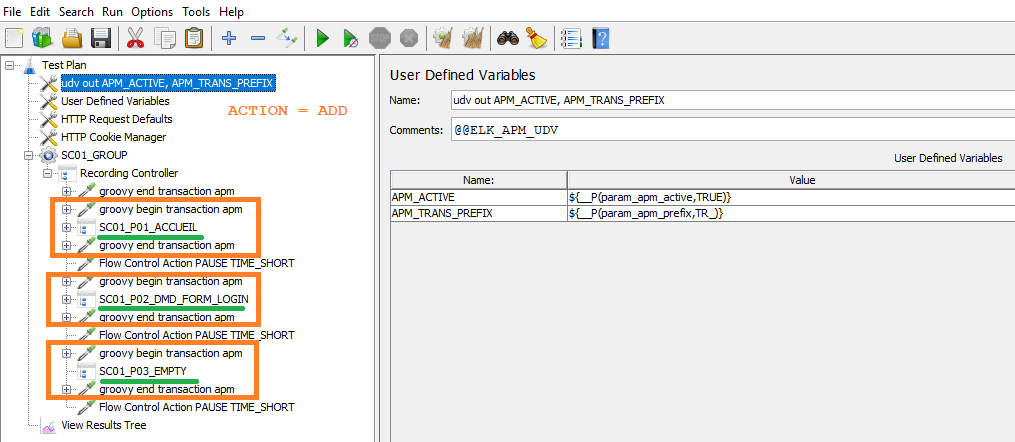
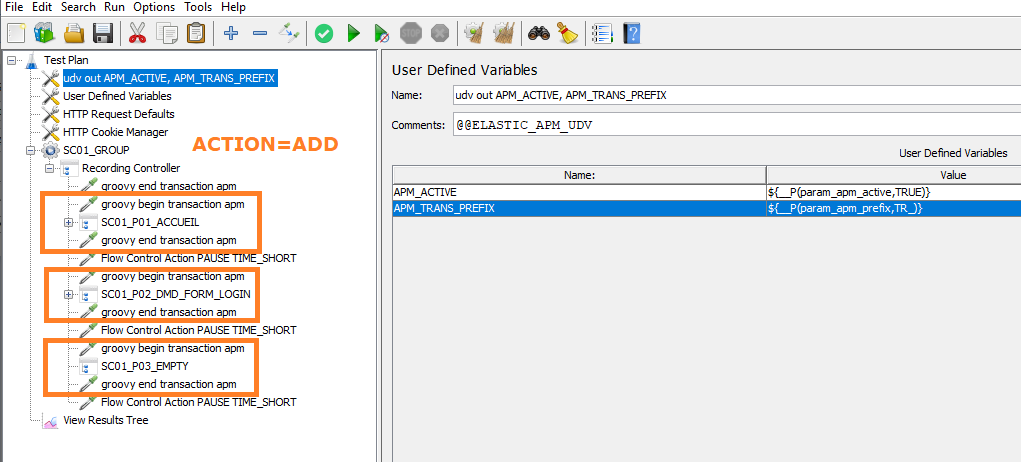
Change globally ELK with ELASTIC

Changed region(s): [[0.0, 0.0, 1.0, 1.0], [0.2138, 0.2353, 0.336, 0.2647]]

diff --git a/doc/US/README_US.md b/doc/US/README_US.md
@@ -1,23 +1,23 @@
 # Blog post in English for site https://elastic.co/en/blog
 
-## The advantages of ELK APM for observing the tested environment
-My first use of the Elastic Search Application Performance Monitoring (ELK APM) observability solution coincides with projects that are developed based on micro-services. In 2019 for the projects on which I was responsible for performance testing.
+## The advantages of ELASTIC APM for observing the tested environment
+My first use of the Elastic Search Application Performance Monitoring (ELASTIC APM) observability solution coincides with projects that are developed based on micro-services. In 2019 for the projects on which I was responsible for performance testing.
 
-At this time (2019) the first versions of ELK APM were released.
+At this time (2019) the first versions of ELASTIC APM were released.
 I was attracted by easy installation of agents, the numerous protocols supported by the Java agent (https://www.elastic.co/guide/en/apm/agent/java/current/supported-technologies-details.html) including the Apache HttpClient used in JMeter and other languages (GO, .Net, Node.js, PHP, Python, Ruby), the dashboards quality in Kibana for the APM.
 
 I found the information displayed in the Kibana APM dashboards to be relevant and not too verbose. The Java agent monitoring is simple but displays essential information on machine OS and JVM. 
 
 The open-source aspect and the free solution for the main functions of the tool were also decisive.
 
-I generalized the use of the ELK APM observability solution in performance environments for all projects. 
+I generalized the use of the ELASTIC APM observability solution in performance environments for all projects. 
 
-With ELK APM, I have the timelines of the different calls and exchanges between web services, the SQL queries executed, the exchange of messages by JMS file and monitoring. 
+With ELASTIC APM, I have the timelines of the different calls and exchanges between web services, the SQL queries executed, the exchange of messages by JMS file and monitoring. 
 
 I also have quick access to errors or exceptions thrown in Java applications.
 
-## Why integrate ELK APM in Apache JMeter
-By adding Java APM agents to web applications, we find the services called timelines in the Kibana dashboards. However, we remain at a REST API call level mainly, we do not have the notion of page.
+## Why integrate ELASTIC APM in Apache JMeter
+By adding Java APM Agents to web applications, we find the services called timelines in the Kibana dashboards. However, we remain at a REST API call level mainly, we do not have the notion of page.
 
 For example, page PAGE01 will make the following API calls:
 <pre>
@@ -46,9 +46,9 @@ If we look in the Kibana dashboard for service2, we will find the union of the c
 
 We cannot answer “In this page, what is the breakdown of time in the different REST calls called” because for a user of the application the notion of page response time is important.
 
-The goal of the jmeter-elk-apm tool is to add the notion of an existing page in JMeter in the  Transaction Controller and start the observability in JMeter by creating an APM transaction and propagating this transaction identifier (traceparent) with the ELK agent to http REST request to web services because the APM agent recognizes the Apache httpclient library and can instrument it.
+The goal of the jmeter-elastic-apm tool is to add the notion of an existing page in JMeter in the  Transaction Controller and start the observability in JMeter by creating an APM transaction and propagating this transaction identifier (traceparent) with the ELASTIC agent to http REST request to web services because the APM Agent recognizes the Apache httpclient library and can instrument it.
 
-In the http request, the apm agent will add the identifier of the apm transaction to the header of the http request. The headers added are traceparent and elastic-apm-traceparent.
+In the http request, the APM Agent will add the identifier of the apm transaction to the header of the http request. The headers added are traceparent and elastic-apm-traceparent.
 
 ![Add request headers](../../doc/images/jmeter_request_header_with_traceparent.png)
 
@@ -62,26 +62,26 @@ We start from the notion of page in JMeter (Transaction Controller) to go to the
 
 In the case of an application composed into multi web services, we will see in the timeline, the different web services called in http(s) or jms and the time spent in each web service.
 
-Example of technical architecture for a performance test with Apache JMeter and ELK APM Agent to test a web application hosted in Apache Tomcat.
+Example of technical architecture for a performance test with Apache JMeter and ELASTIC APM Agent to test a web application hosted in Apache Tomcat.
 
-![Architecture](../../doc/images/architecture_jmeter_tomcat_elk.png)
+![Architecture](../../doc/images/architecture_jmeter_tomcat_elastic_apm.png)
 
-## How the jmeter-elk-apm tool works
-jmeter-elk-apm adds groovy code before a JMeter Transaction Controller to create an APM transaction before a page. 
+## How the jmeter-elastic-apm tool works
+jmeter-elastic-apm adds groovy code before a JMeter Transaction Controller to create an APM transaction before a page. 
 
-In the JMeter Transaction Controller we find http samplers which make REST http(s) calls to the services, the ELK agent automatically adds a new traceparent header containing the identifier of the APM transaction because it recognizes the Apache HttpClient of the http sampler.
+In the JMeter Transaction Controller we find http samplers which make REST http(s) calls to the services, the ELASTIC APM Agent automatically adds a new traceparent header containing the identifier of the APM transaction because it recognizes the Apache HttpClient of the http sampler.
 
 The groovy code terminates the APM transaction to indicate the end of the page.
 
-The jmeter-elk-apm tool automates the addition of groovy code before the JMeter Transaction Controller and after the JMeter Transaction Controller.
+The jmeter-elastic-apm tool automates the addition of groovy code before the JMeter Transaction Controller and after the JMeter Transaction Controller.
 
-The jmeter-elk-apm tool is an open source on Github  at the url: https://github.com/vdaburon/jmeter-elk-apm
+The jmeter-elastic-apm tool is an open source on Github  at the url: https://github.com/vdaburon/jmeter-elastic-apm
 
 This JMeter script is simple with 3 pages in 3 JMeter Transaction Controllers.
 
 ![JMeter script](../../doc/images/simple_script.png)
 
-After launching the jmeter-elk-apm action ADD tool, the JMeter Transaction Controllers are surrounded by groovy code to create an APM transaction before the JMeter Transaction Controller and close the APM transaction after the JMeter Transaction Controller.
+After launching the jmeter-elastic-apm action ADD tool, the JMeter Transaction Controllers are surrounded by groovy code to create an APM transaction before the JMeter Transaction Controller and close the APM transaction after the JMeter Transaction Controller.
 
 In the “groovy begin apm” sampler, the groovy code calls the ElasticApm API (simplified version):
 <pre>
@@ -97,16 +97,16 @@ transaction.end();
 
 ![JMeter script add](../../doc/images/script_add.png)
 
-## Configuring Apache JMeter with the ELK APM agent and the apm library
-### Start Apache JMeter with ELK APM agent and ELK APM api library
-### Declare the elastic apm agent
-Url to find the apm agent : https://mvnrepository.com/artifact/co.elastic.apm/elastic-apm-agent
+## Configuring Apache JMeter with the ELASTIC APM Agent and the apm library
+### Start Apache JMeter with ELASTIC APM Agent and ELASTIC APM api library
+### Declare the elastic APM Agent
+Url to find the APM Agent : https://mvnrepository.com/artifact/co.elastic.apm/elastic-apm-agent
 
-Add the ELK apm agent somewhere in the filesystem (could be in the &lt;JMETER_HOME&gt;\lib but not mandatory)
+Add the ELASTIC APM Agent somewhere in the filesystem (could be in the &lt;JMETER_HOME&gt;\lib but not mandatory)
 
 In &lt;JMETER_HOME&gt;\bin modify the jmeter.bat or setenv.bat
 
-Add ELK APM configuration likes :
+Add ELASTIC APM configuration likes :
 <pre>
 set APM_SERVICE_NAME=yourServiceName
 set APM_ENVIRONMENT=yourEnvironment
@@ -115,15 +115,15 @@ set APM_SERVER_URL=http://apm_host:8200
 set JVM_ARGS=-javaagent:&lt;PATH_TO_AGENT_APM_JAR&gt;\elastic-apm-agent-&lt;version&gt;.jar -Delastic.apm.service_name=%APM_SERVICE_NAME% -Delastic.apm.environment=%APM_ENVIRONMENT% -Delastic.apm.server_urls=%APM_SERVER_URL%
 </pre>
 
-### Add the elastic apm library
-Add the ELK apm api library in the &lt;JMETER_HOME&gt;\lib\apm-agent-api-&lt;version&gt;.jar
+### Add the ELASTIC APM library
+Add the ELASTIC APM api library in the &lt;JMETER_HOME&gt;\lib\apm-agent-api-&lt;version&gt;.jar
 
 This library is use by JSR223 groovy code.
 
 Url to find the apm library : https://mvnrepository.com/artifact/co.elastic.apm/apm-agent-api
 
-## Recommendations on the impact of adding ELK APM in JMeter
-The APM agent will intercept and modify all http sampler calls and this information will be stored in Elastic Search. 
+## Recommendations on the impact of adding ELASTIC APM in JMeter
+The APM Agent will intercept and modify all http sampler calls and this information will be stored in Elastic Search. 
 
 It is preferable to voluntarily disable the http request of static elements (images, css, JavaScript, fonts) which can generate a large number of requests but which are not very useful in analyzing the timeline.
 
@@ -141,16 +141,16 @@ ElasticApm.setConfig("transaction_sample_rate","0.5");
 </pre>
 
 ## Conclusion
-The jmeter-elk-apm tool allows you to easily integrate the ELK APM observability solution into JMeter and add the notion of page in the timelines of Kibana APM dashboards.
+The jmeter-elastic-apm tool allows you to easily integrate the ELASTIC APM observability solution into JMeter and add the notion of page in the timelines of Kibana APM dashboards.
 
-ELK APM + JMeter is an excellent solution for understanding how the environment works during a performance test with simple monitoring, quality dashboards, time breakdown timelines in the different distributed application layers, display of exceptions lifted in web services.
+ELASTIC APM + Apache JMeter is an excellent solution for understanding how the environment works during a performance test with simple monitoring, quality dashboards, time breakdown timelines in the different distributed application layers, display of exceptions in web services.
 
-Over time, the ELK APM solution gets better, I strongly recommend it of course in a performance testing context but it also has many advantages in the context of a development environment used for developers or integration used by functional or technical testers.
+Over time, the ELASTIC APM solution gets better, I strongly recommend it of course in a performance testing context but it also has many advantages in the context of a development environment used for developers or integration used by functional or technical testers.
 
 ## About Vincent DABURON
 - I’m a developer (java since 1996), a technical architect, I made performance tests since 1999.
 - I’m an expert in the performance testing tools LoadRunner (since 1999) and Apache JMeter (since 2004).
 - I have been giving web conferences and training since 2004 for internal colleagues in the large information technology consulting company.
-- I have been a user and fan of the ELK APM solution since 2019.
+- I have been a user and fan of the ELASTIC APM solution since 2019.
 - I have created several plugins for Apache JMeter available on the jmeter-plugins.org website or on github (https://github.com/vdaburon)
 - My linkedIn : https://www.linkedin.com/in/daburon-vincent-b658131/
